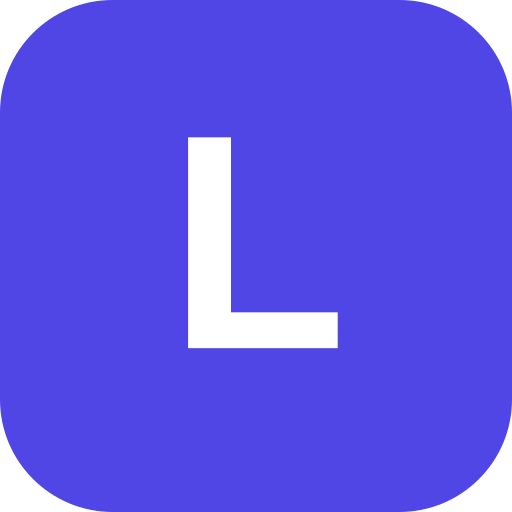
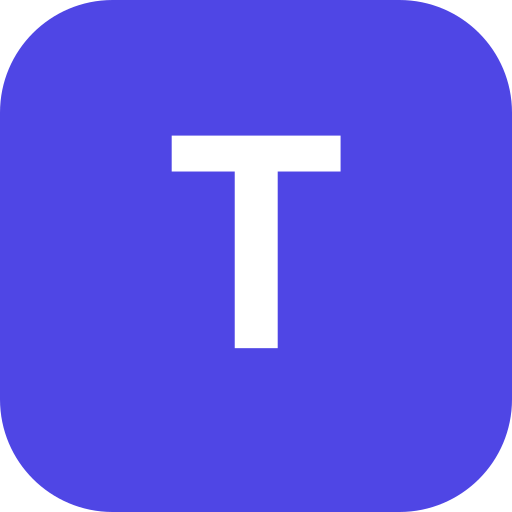
Rebrand app from Ledger to Tallyo
Renames the product across the sidebar, browser tab, installed-app manifest,
login/signup pages, and marketing site, and regenerates the app icons with
the new mark. "Ledger" stays where it's used as an accounting term (the
General Ledger feature, ledger accounts) rather than the brand name.

Changed region(s): [[0.3125, 0.25, 0.6875, 0.6875]]

diff --git a/app/page.tsx b/app/page.tsx
@@ -35,9 +35,9 @@ export default function Home() {
         <div className="mx-auto flex max-w-6xl items-center justify-between px-6 py-4">
           <div className="flex items-center gap-2">
             <div className="flex h-8 w-8 items-center justify-center rounded-lg bg-accent text-sm font-bold text-white">
-              L
+              T
             </div>
-            <span className="text-base font-semibold">Ledger</span>
+            <span className="text-base font-semibold">Tallyo</span>
           </div>
           <nav className="flex items-center gap-3">
             <Link
@@ -64,7 +64,7 @@ export default function Home() {
           Books, sales, and payroll — in one place
         </h1>
         <p className="mt-5 max-w-xl text-lg text-muted">
-          Ledger is a straightforward accounting platform: a proper
+          Tallyo is a straightforward accounting platform: a proper
           double-entry general ledger today, with point of sale and payroll
           on the way.
         </p>
@@ -117,7 +117,7 @@ export default function Home() {
 
       <footer className="border-t border-border">
         <div className="mx-auto max-w-6xl px-6 py-6 text-sm text-muted">
-          © {new Date().getFullYear()} Ledger.
+          © {new Date().getFullYear()} Tallyo.
         </div>
       </footer>
     </div>

diff --git a/app/(app)/layout.tsx b/app/(app)/layout.tsx
@@ -51,9 +51,9 @@ export default async function AppLayout({
       <aside className="flex w-64 shrink-0 flex-col bg-[var(--sidebar-bg)] text-[var(--sidebar-fg)]">
         <div className="flex items-center gap-2 px-6 py-6">
           <div className="flex h-8 w-8 items-center justify-center rounded-lg bg-accent text-sm font-bold text-white">
-            L
+            T
           </div>
-          <span className="text-base font-semibold text-white">Ledger</span>
+          <span className="text-base font-semibold text-white">Tallyo</span>
         </div>
 
         <nav className="flex flex-1 flex-col gap-1 px-3">

diff --git a/app/signup/page.tsx b/app/signup/page.tsx
@@ -16,7 +16,7 @@ export default function SignupPage() {
       <div className="w-full max-w-sm">
         <div className="mb-8 flex justify-center">
           <div className="flex h-10 w-10 items-center justify-center rounded-lg bg-accent text-base font-bold text-white">
-            L
+            T
           </div>
         </div>
         <Card className="p-8">

diff --git a/app/login/page.tsx b/app/login/page.tsx
@@ -16,7 +16,7 @@ export default function LoginPage() {
       <div className="w-full max-w-sm">
         <div className="mb-8 flex justify-center">
           <div className="flex h-10 w-10 items-center justify-center rounded-lg bg-accent text-base font-bold text-white">
-            L
+            T
           </div>
         </div>
         <Card className="p-8">

diff --git a/app/manifest.ts b/app/manifest.ts
@@ -2,8 +2,8 @@ import type { MetadataRoute } from "next";
 
 export default function manifest(): MetadataRoute.Manifest {
   return {
-    name: "Ledger",
-    short_name: "Ledger",
+    name: "Tallyo",
+    short_name: "Tallyo",
     description: "Accounting, inventory, and POS for small businesses.",
     start_url: "/dashboard",
     display: "standalone",

diff --git a/app/layout.tsx b/app/layout.tsx
@@ -14,12 +14,12 @@ const geistMono = Geist_Mono({
 });
 
 export const metadata: Metadata = {
-  title: "Ledger",
+  title: "Tallyo",
   description: "Accounting, payroll, and POS for small businesses.",
   appleWebApp: {
     capable: true,
     statusBarStyle: "default",
-    title: "Ledger",
+    title: "Tallyo",
   },
 };
 
